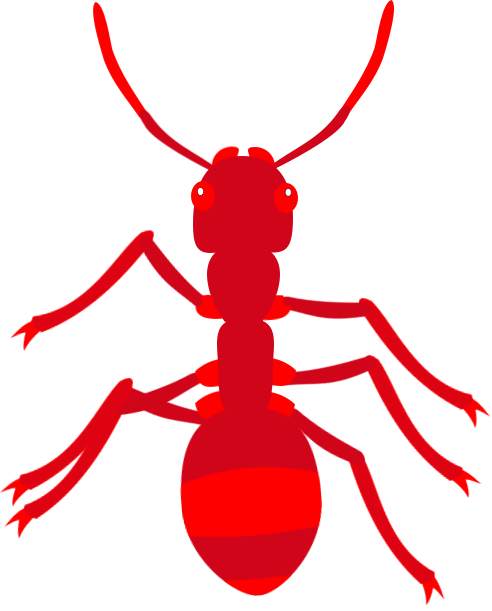
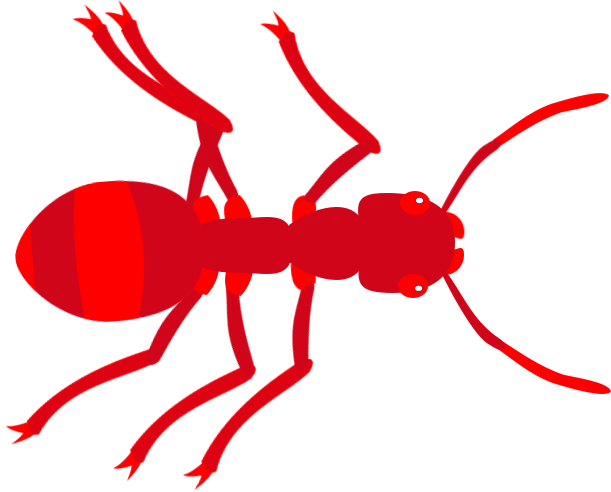
Started implementing wall collision

diff --git a/src/ant.cc b/src/ant.cc
@@ -1,34 +1,58 @@
 #include "ant.h"
 
+#include <cinder/app/AppBase.h>
+
 using ci::Color;
 using glm::vec2;
 
 namespace antsim {
+float Ant::width_ = -1;
+float Ant::height_ = -1;
 
-Ant::Ant(const vec2& position, const vec2& velocity) :
- direction_(kSpeed, kStartingAngle)
-{
+Ant::Ant(const glm::vec2& position, const float angle, const float speed)
+    : direction_(speed, angle) {
   position_ = position;
-  velocity_ = velocity;
+  velocity_ = vec2();
   frame_count_ = 0;
-
-  auto image = ci::loadImage(R"(C:\Users\scycl\Desktop\Cinder\my-projects\final-project-sumincho22\assets\ant.png)");
-  ant_model_ = ci::gl::Texture2d::create(image);
 }
 
 void Ant::AdvanceOneFrame() {
+  HandleMovement();
   frame_count_++;
 }
 
 void Ant::DrawModel() {
+  static ci::gl::Texture2dRef ant_model = ci::gl::Texture2d::create(ci::loadImage(
+      R"(C:\Users\scycl\Desktop\Cinder\my-projects\final-project-sumincho22\assets\ant.png)"));
+  if (width_ == -1 && height_ == -1){
+    width_ = static_cast<float>(ant_model->getWidth());
+    height_ = static_cast<float>(ant_model->getHeight());
+  }
+
   ci::gl::pushModelMatrix();
-  ci::gl::translate(position_);
-//  ci::gl::translate(1, 1);
-//  ci::gl::rotate(direction_.GetAngle()); //TODO: find a way to rotate by model's center
-//  ci::gl::translate(-1, -1);
-  ci::gl::scale(0.03f, 0.03f);
-  ci::gl::draw(ant_model_);
+  ci::gl::translate(position_ +
+                    kModelScale *
+                        glm::vec2(width_ / 2.0f,
+                                          height_ / 2.0f));
+  ci::gl::rotate(direction_.GetAngle());
+  ci::gl::translate(-kModelScale *
+                    glm::vec2(width_ / 2.0f,
+                              height_ / 2.0f));
+  ci::gl::scale(kModelScale, kModelScale);
+  ci::gl::draw(ant_model);
   ci::gl::popModelMatrix();
+}
+
+void Ant::HandleMovement() {
+  if (position_.x + width_ > ci::app::getWindowSize().x || position_.x < 0) {
+    NegateXVel();
+    UpdatePosition();
+  } else if (position_.y + height_ > ci::app::getWindowSize().y || position_.y < 0) {
+    NegateYVel();
+    UpdatePosition();
+  } else {
+    Wander();
+  }
 }
 
 void Ant::UpdatePosition() {
@@ -36,8 +60,8 @@ void Ant::UpdatePosition() {
 }
 
 void Ant::Wander() {
-  size_t big_turn_prob = rand() % (kBigChange - frame_count_) + frame_count_;
-  size_t small_turn_prob = rand() % kSmallChange;
+  int big_turn_prob = rand() % (kBigChange - frame_count_) + frame_count_;
+  int small_turn_prob = rand() % kSmallChange + 1;
 
   if (frame_count_ == big_turn_prob) {
     direction_.ApplyTurn(velocity_, kBigTurn);

diff --git a/include/ant.h b/include/ant.h
@@ -1,7 +1,6 @@
 #pragma once
 
 #include <cmath>
-#include <stdlib.h>
 
 #include "cinder/gl/gl.h"
 #include "direction.h"
@@ -19,11 +18,13 @@ class Ant {
    * @param position the location of the Ant (the x- and y-coordinates)
    * @param velocity the velocity of the Ant (in x- and y-velocities)
    */
-  Ant(const glm::vec2& position, const glm::vec2& velocity);
+  Ant(const glm::vec2& position, const float angle, const float speed);
 
   void AdvanceOneFrame();
 
   void DrawModel();
+
+  void HandleMovement();
 
   void Wander();
 
@@ -32,25 +33,23 @@ class Ant {
   void NegateYVel();
 
  private:
-  float kSmallTurn = static_cast<float>(M_PI) / 8;
-  float kBigTurn = static_cast<float>(M_PI) / 2;
+  const float kModelScale = 0.03f;
 
-  float kSpeed = 1;
-  float kStartingAngle = static_cast<float>(M_PI) / 2;
+  const size_t kSmallChange = 10;
+  const size_t kBigChange = 100;
 
-  float kWindowLength = 1500;
-  float kWindowHeight = 1000;
+  const float kSmallTurn = static_cast<float>(M_PI) / 8;
+  const float kBigTurn = static_cast<float>(M_PI) / 2;
 
-  size_t kSmallChange = 10;
-  size_t kBigChange = 100;
+  size_t frame_count_;
 
   glm::vec2 position_;
   glm::vec2 velocity_;
+
   Direction direction_;
-  size_t frame_count_;
 
-  ci::gl::Texture2dRef ant_model_;
-
+  static float width_;
+  static float height_;
 };
 
 }  // namespace antsim

diff --git a/src/ant_simulation_app.cc b/src/ant_simulation_app.cc
@@ -3,8 +3,9 @@
 namespace antsim {
 
 AntSimApp::AntSimApp() :
-      ant_(glm::vec2(kWindowWidth / 3, kWindowHeight / 3), glm::vec2(1, 0)) {
+      ant_(glm::vec2(kWindowWidth / 3, kWindowHeight / 3), 0, 2) {
   ci::app::setWindowSize(kWindowWidth, kWindowHeight);
+  ci::app::setFullScreen();
 }
 
 void AntSimApp::draw() {
@@ -15,7 +16,7 @@ void AntSimApp::draw() {
 }
 
 void AntSimApp::update() {
-  ant_.UpdatePosition();
+  ant_.AdvanceOneFrame();
 }
 
 }  // namespace antsim

diff --git a/include/ant_simulation_app.h b/include/ant_simulation_app.h
@@ -17,8 +17,8 @@ class AntSimApp : public ci::app::App {
   void draw() override;
   void update() override;
 
-  const int kWindowWidth = 1500;
-  const int kWindowHeight = 1000;
+  const int kWindowWidth = 1920;
+  const int kWindowHeight = 1080;
 
  private:
   Ant ant_;
